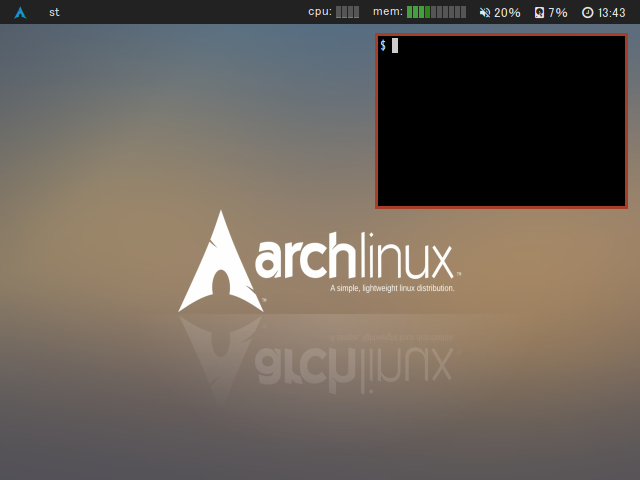
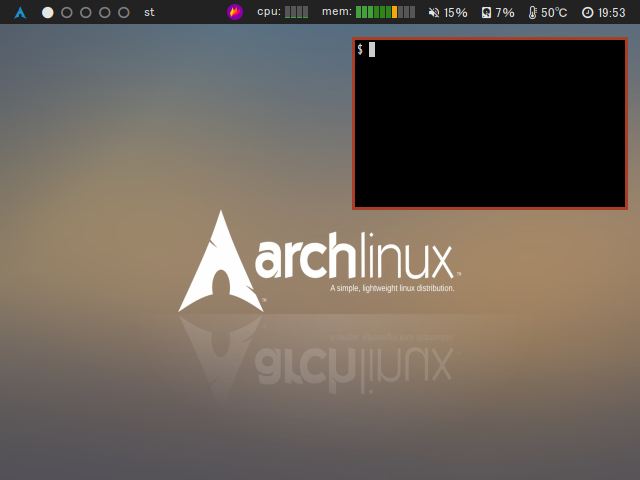
add system tray support

Changed region(s): [[0.3438, 0.0, 1.0, 0.4375], [0.0625, 0.0, 0.25, 0.0625], [0.9375, 0.0, 0.9688, 0.0312]]

diff --git a/systray.c b/systray.c
@@ -1,0 +1,192 @@
+#include <alloca.h>
+#include <stdio.h>
+#include <stdlib.h>
+#include <string.h>
+#include <X11/Xatom.h>
+#include <X11/Xlib.h>
+#include <X11/Xutil.h>
+
+#include "bspwmbar.h"
+
+#define ATOM_SYSTRAY "_NET_SYSTEM_TRAY_S"
+
+#define XEMBED_EMBEDDED_NOTIFY        0
+#define XEMBED_WINDOW_ACTIVATE        1
+#define XEMBED_WINDOW_DEACTIVATE      2
+#define XEMBED_REQUEST_FOCUS          3
+#define XEMBED_FOCUS_IN               4
+#define XEMBED_FOCUS_OUT              5
+#define XEMBED_FOCUS_NEXT             6
+#define XEMBED_FOCUS_PREV             7
+/* 8-9 were used for XEMBED_GRAB_KEY/XEMBED_UNGRAB_KEY */
+#define XEMBED_MODALITY_ON            10
+#define XEMBED_MODALITY_OFF           11
+#define XEMBED_REGISTER_ACCELERATOR   12
+#define XEMBED_UNREGISTER_ACCELERATOR 13
+#define XEMBED_ACTIVATE_ACCELERATOR   14
+
+enum {
+	SYSTRAY_TIME,
+	SYSTRAY_OPCODE,
+	SYSTRAY_DATA1,
+	SYSTRAY_DATA2,
+	SYSTRAY_DATA3,
+};
+
+enum {
+	SYSTRAY_REQUEST_DOCK,
+	SYSTRAY_BEGIN_MESSAGE,
+	SYSTRAY_CANCEL_MESSAGE,
+};
+
+static Atom systray_atom;
+
+int
+systray_init(TrayWindow *tray)
+{
+	XSetWindowAttributes wattrs;
+	tray->items = NULL;
+
+	size_t len = strlen(ATOM_SYSTRAY) + sizeof(int) + 1;
+	char *atomstr = (char *)alloca(len);
+	snprintf(atomstr, len, ATOM_SYSTRAY "%d", DefaultScreen(tray->dpy));
+	systray_atom = XInternAtom(tray->dpy, atomstr, 1);
+	XSetSelectionOwner(tray->dpy, systray_atom, tray->win, CurrentTime);
+
+	if (XGetSelectionOwner(tray->dpy, systray_atom) != tray->win)
+		return -1;
+
+	wattrs.event_mask = ClientMessage;
+	XChangeWindowAttributes(tray->dpy, tray->win, CWEventMask, &wattrs);
+
+	XEvent ev = { 0 };
+	ev.xclient.type = ClientMessage;
+	ev.xclient.message_type = XInternAtom(tray->dpy, "MANAGER", 0);
+	ev.xclient.format = 32;
+	ev.xclient.data.l[0] = CurrentTime;
+	ev.xclient.data.l[1] = systray_atom;
+	ev.xclient.data.l[2] = tray->win;
+	ev.xclient.data.l[3] = 0;
+	ev.xclient.data.l[4] = 0;
+
+	XSendEvent(tray->dpy, tray->win, 0, StructureNotifyMask, &ev);
+
+	return 0;
+}
+
+static int
+xembed_send(Display *dpy, Window win, long message, long d1, long d2, long d3)
+{
+	XEvent ev = { 0 };
+	ev.xclient.type = ClientMessage;
+	ev.xclient.window = win;
+	ev.xclient.message_type = XInternAtom(dpy, "_XEMBED", 0);
+	ev.xclient.format = 32;
+	ev.xclient.data.l[0] = CurrentTime;
+	ev.xclient.data.l[1] = message;
+	ev.xclient.data.l[2] = d1;
+	ev.xclient.data.l[3] = d2;
+	ev.xclient.data.l[4] = d3;
+
+	XSendEvent(dpy, win, 0, NoEventMask, &ev);
+	XSync(dpy, 0);
+
+	return 0;
+}
+
+static int
+xembed_embedded_notify(TrayWindow *tray, Window win, long version)
+{
+	return xembed_send(tray->dpy, win, XEMBED_EMBEDDED_NOTIFY, 0, tray->win,
+	                   version);
+}
+
+static int
+xembed_unembed_window(TrayWindow *tray, Window child)
+{
+	XUnmapWindow(tray->dpy, child);
+	XReparentWindow(tray->dpy, child, DefaultRootWindow(tray->dpy), 0, 0);
+	XSync(tray->dpy, 0);
+
+	return 0;
+}
+
+static void
+systray_append_item(TrayWindow *tray, Window win)
+{
+	if (!tray->items) {
+		tray->items = (TrayItem *)calloc(1, sizeof(TrayItem));
+		tray->items->win = win;
+		return;
+	}
+
+	TrayItem *item = tray->items;
+	while (item->next)
+		item = item->next;
+
+	item->next = (TrayItem *)calloc(1, sizeof(TrayItem));
+	tray->win = win;
+}
+
+void
+systray_remove_item(TrayWindow *tray, Window win)
+{
+	TrayItem *item = tray->items;
+
+	for (; item; item = item->next) {
+		if (item->win != win)
+			continue;
+
+		if (item->prev)
+			item->prev->next = item->next;
+		if (item->next)
+			item->next->prev = item->prev;
+		break;
+	}
+	if (item == tray->items)
+		tray->items = NULL;
+	if (item)
+		free(item);
+}
+
+int
+systray_handle(TrayWindow *tray, XEvent ev)
+{
+	if (ev.xclient.type != ClientMessage)
+		return 1;
+
+	Atom atomop = XInternAtom(tray->dpy, "_NET_SYSTEM_TRAY_OPCODE", 0);
+	if (ev.xclient.message_type != atomop)
+		return 1;
+
+	Window win = 0;
+	switch (ev.xclient.data.l[SYSTRAY_OPCODE]) {
+	case SYSTRAY_REQUEST_DOCK:
+		win = ev.xclient.data.l[SYSTRAY_DATA1];
+
+		XSelectInput (tray->dpy, win, StructureNotifyMask);
+		XWithdrawWindow(tray->dpy, win, 0);
+		XReparentWindow(tray->dpy, win, tray->win, 0, 0);
+		XSync(tray->dpy, 0);
+
+		systray_append_item(tray, win);
+		xembed_embedded_notify(tray, win, 0);
+		break;
+	}
+
+	return 0;
+}
+
+void
+systray_destroy(TrayWindow *tray)
+{
+	XSetSelectionOwner(tray->dpy, systray_atom, 0, CurrentTime);
+
+	TrayItem *item = tray->items, *tmp;
+	while (item) {
+		xembed_unembed_window(tray, item->win);
+		tmp = item;
+		item = item->next;
+		free(tmp);
+	}
+}

diff --git a/bspwmbar.c b/bspwmbar.c
@@ -64,6 +64,7 @@ enum {
 
 int epfd = 0;
 XftColor cols[LENGTH(colors)];
+TrayWindow tray;
 
 typedef struct {
 	Module *module;
@@ -121,9 +122,16 @@ getxftcolor(Display *dpy, int scr, const char *colstr)
 static void
 load_colors(Display *dpy, int scr)
 {
-	for (size_t i = 0; i < LENGTH(colors); i++) {
+	for (size_t i = 0; i < LENGTH(colors); i++)
 		cols[i] = getxftcolor(dpy, scr, colors[i]);
-	}
+}
+
+static void
+free_colors(Display *dpy, int scr)
+{
+	Colormap cmap = DefaultColormap(dpy, scr);
+	for (size_t i = 0; i < LENGTH(colors); i++)
+		XftColorFree(dpy, DefaultVisual(dpy, scr), cmap, &cols[i]);
 }
 
 static WsState
@@ -197,13 +205,13 @@ barwindow_init(Display *dpy, int scr, int x, int y, int width, int height,
 	xw->pixmap = XCreatePixmap(dpy, RootWindow(dpy, scr), width, height,
 	                           DefaultDepth(dpy, scr));
 
-	wattrs.background_pixmap = xw->pixmap;
+	wattrs.background_pixel = cols[BGCOLOR].pixel;
 	wattrs.event_mask = NoEventMask;
 
 	xw->win = XCreateWindow(dpy, RootWindow(dpy, scr), x, y, width, height, 0,
-	                        DefaultDepth(dpy, scr), CopyFromParent,
-	                        DefaultVisual(dpy, scr),
-	                        CWBackPixmap | CWEventMask,
+	                        CopyFromParent, CopyFromParent,
+	                        CopyFromParent,
+	                        CWBackPixel | CWEventMask,
 	                        &wattrs);
 
 	/* set window type */
@@ -517,7 +525,18 @@ bspwmbar_render(Bspwmbar *bar)
 
 		/* render cpu */
 		x -= pad;
-		bspwmbar_drawcpu(bar, xw, cores, ncore, x);
+		x -= bspwmbar_drawcpu(bar, xw, cores, ncore, x);
+		x -= pad;
+
+		if (xw->win == tray.win) {
+			x -= pad;
+			TrayItem *item = tray.items;
+			for (; item; item = item->next) {
+				x -= 16;
+				XMoveResizeWindow(tray.dpy, item->win, x, 4, 16, 16);
+				x -= pad;
+			}
+		}
 	}
 
 	if (title)
@@ -607,10 +626,7 @@ bspwmbar_init(Bspwmbar *bar, Display *dpy, int scr)
 
 	/* clear background */
 	for (i = 0; i < bar->nxbar; i++) {
-		XSetForeground(dpy, bar->gc, cols[BGCOLOR].pixel);
-		XFillRectangle(dpy, bar->xbars[i].pixmap, bar->gc, 0, 0,
-		               bar->xbars[i].width, bar->xbars[i].height);
-
+		XClearWindow(dpy, bar->xbars[i].win);
 		XLowerWindow(dpy, bar->xbars[i].win);
 		XMapWindow(dpy, bar->xbars[i].win);
 	}
@@ -701,6 +717,10 @@ main(int argc, char *argv[])
 	if (bspwmbar_init(&bar, dpy, DefaultScreen(dpy)))
 		die("bspwmbar_init(): Failed to init bspwmbar\n");
 
+	tray.win = bar.xbars[0].win;
+	tray.dpy = dpy;
+	systray_init(&tray);
+
 	if (bspwmbar_send(&bar, SUBSCRIBE_REPORT, LENGTH(SUBSCRIBE_REPORT)) == -1)
 		die("bspwmbar_send(): Failed to send command to bspwm\n");
 
@@ -790,6 +810,14 @@ main(int argc, char *argv[])
 						if (event.xproperty.atom == filter)
 							need_render = 1;
 						break;
+					case ClientMessage:
+						systray_handle(&tray, event);
+						need_render = 1;
+						break;
+					case DestroyNotify:
+						systray_remove_item(&tray, event.xdestroywindow.window);
+						need_render = 1;
+						break;
 					}
 				}
 			} else if (events[i].data.fd == afd) {
@@ -810,7 +838,9 @@ CLEANUP:
 
 	close(tfd);
 	alsa_disconnect();
+	systray_destroy(&tray);
 	bspwmbar_destroy(&bar);
+	free_colors(dpy, DefaultScreen(dpy));
 	if (XCloseDisplay(dpy))
 		die("XCloseDisplay(): Failed to close display\n");
 

diff --git a/bspwmbar.h b/bspwmbar.h
@@ -30,6 +30,18 @@ typedef struct {
 	long oneper;
 } AlsaInfo;
 
+typedef struct _TrayItem {
+	struct _TrayItem *prev;
+	struct _TrayItem *next;
+	Window   win;
+} TrayItem;
+
+typedef struct {
+	Display *dpy;
+	Window win;
+	TrayItem *items;
+} TrayWindow;
+
 int cpu_perc(CoreInfo **);
 int mem_perc();
 
@@ -44,5 +56,10 @@ char *volume(const char *);
 void volume_ev(XEvent);
 
 char *datetime(const char *);
+
+int systray_init(TrayWindow *);
+void systray_destroy(TrayWindow *);
+void systray_remove_item(TrayWindow *, Window);
+int systray_handle(TrayWindow *, XEvent);
 
 #endif

diff --git a/README.md b/README.md
@@ -17,6 +17,7 @@ A lightweight status bar for bspwm.
 - [x] Memory usage
 - [x] CPU usage per core
 - [x] Implements clickable label
+- [x] System Tray support
 - [ ] Pulseaudio support
 - [ ] GitHub notification
 - [ ] Refactor code
